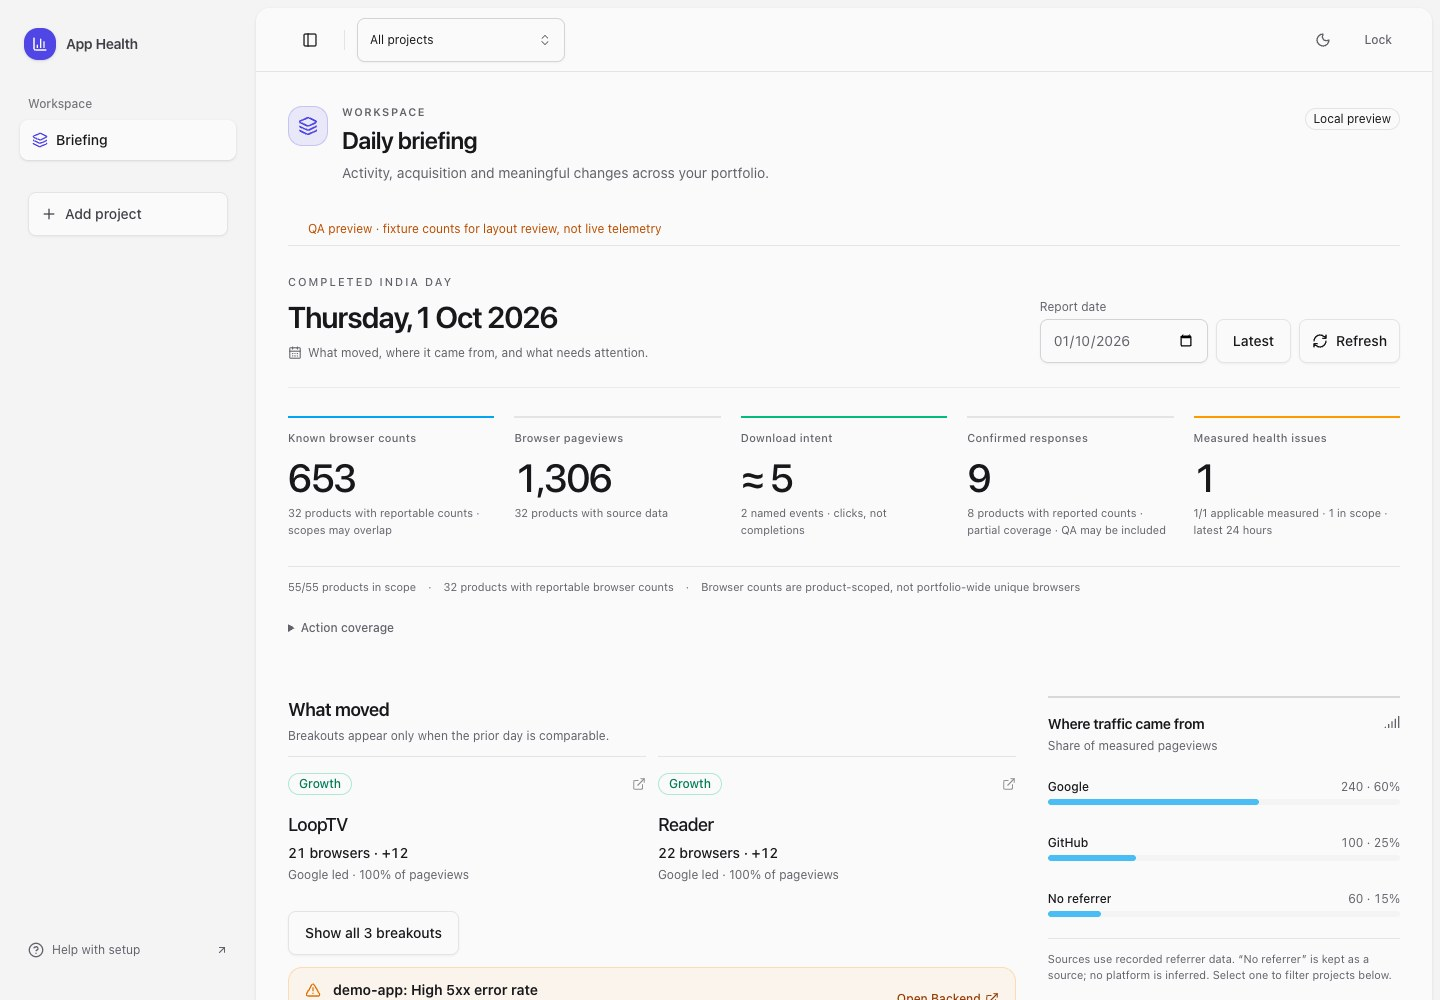
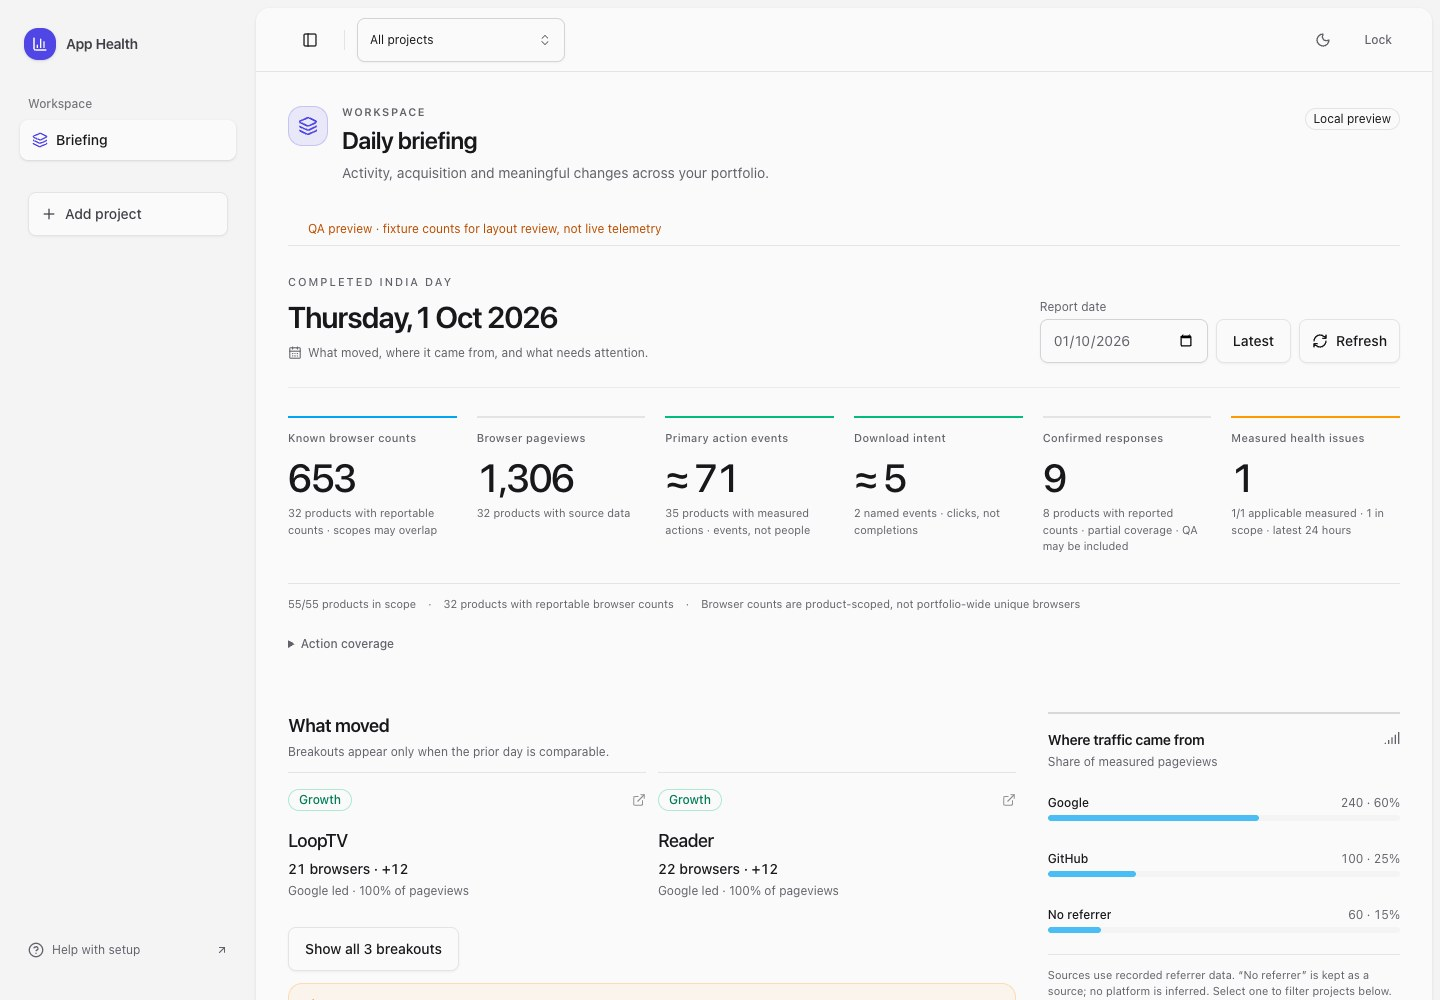
Keep primary CTA totals visible in the briefing summary

diff --git a/apps/web/src/PortfolioBriefing.tsx b/apps/web/src/PortfolioBriefing.tsx
@@ -989,7 +989,7 @@ function Summary({
 
   return (
     <section aria-label="Selected day summary" className="space-y-4">
-      <div className="grid grid-cols-2 gap-x-5 sm:grid-cols-3 xl:grid-cols-5">
+      <div className="grid grid-cols-2 gap-x-5 sm:grid-cols-3 xl:grid-cols-6">
         <Stat
           label="Known browser counts"
           value={browserProducts ? browserCounts.toLocaleString() : 'Unknown'}
@@ -1004,6 +1004,16 @@ function Summary({
               ? `${pageviewProducts} products with source data${pageviewsEstimated ? ' · estimated' : ''}`
               : 'Source aggregate unavailable'
           }
+        />
+        <Stat
+          label="Primary action events"
+          value={
+            measuredActionProducts
+              ? `${actionEstimated ? '≈ ' : ''}${namedActionCount.toLocaleString()}`
+              : 'Unknown'
+          }
+          detail={`${measuredActionProducts} products with measured actions · events, not people`}
+          tone="green"
         />
         <Stat
           label="Download intent"
@@ -1021,7 +1031,6 @@ function Summary({
           value={healthValue}
           detail={healthDetail}
           tone={attentionItems.length ? 'amber' : 'neutral'}
-          className="col-span-2 xl:col-span-1"
         />
       </div>
       <div className="flex flex-wrap items-center gap-x-3 gap-y-1 border-t pt-3 text-[11px] text-muted-foreground">

diff --git a/apps/web/test/DailyEngagement.test.tsx b/apps/web/test/DailyEngagement.test.tsx
@@ -79,6 +79,11 @@ it('shows browser counts, action intent, response receipts, sources, and applica
   ).toBeTruthy();
   expect(screen.getAllByText('100').length).toBeGreaterThanOrEqual(1);
   expect(screen.getByText('Download intent')).toBeTruthy();
+  const primaryActions = within(
+    screen.getByRole('region', { name: 'Selected day summary' }),
+  ).getByText('Primary action events').parentElement!;
+  expect(primaryActions.textContent).toContain('≈ 21');
+  expect(primaryActions.textContent).toContain('events, not people');
   expect(screen.getByText('Confirmed responses')).toBeTruthy();
   expect(screen.getByText('Measured health issues')).toBeTruthy();
   expect(screen.getByText('Atlas: Slow requests')).toBeTruthy();

diff --git a/.fleet/evidence/briefing-editorial-2026-10-02/README.md b/.fleet/evidence/briefing-editorial-2026-10-02/README.md
@@ -4,6 +4,6 @@ Owner explicitly delegated the visual choice after rejecting the dashboard. This
 
 Six renders cover 390, 768 and 1440 pixels in light and dark mode. Counts are explicitly labelled synthetic QA fixtures and are not evidence of live traffic. Existing browser scenarios verify all 55 rows, source filters, search, breakout disclosure and readable responsive reflow.
 
-Full repository check passed, including 131 browser tests. Independent review found clipped tablet health text; final code wraps long status values and gives the tablet health metric two columns. The six focused scenarios passed after that fix.
+Full repository check passed, including 131 browser tests. Independent review found clipped tablet health text; final code wraps long status values and uses smaller typography for long statuses. The six focused scenarios passed after that fix. Primary action event totals are visible in the six-metric summary, with estimated counts marked and events distinguished from people; a focused regression assertion verifies this headline.
 
 Production deployment remains held by the pending Cloudflare R2 subscription confirmation.

diff --git a/DESIGN.md b/DESIGN.md
@@ -38,7 +38,7 @@ column, and cards that preserve clear relationships between filters, totals, tre
 The footer belongs only to the landing page.
 
 The portfolio briefing uses an editorial report composition: a prominent completed-day
-heading, a continuous five-metric rail with semantic top rules, open breakout stories,
+heading, a continuous six-metric rail with semantic top rules, open breakout stories,
 and a compact acquisition column above the full project ledger. Avoid enclosing the
 whole report in another card or repeating its title. Keep qualifications next to their
 numbers; longer action definitions can use an accessible disclosure. Missing data,
